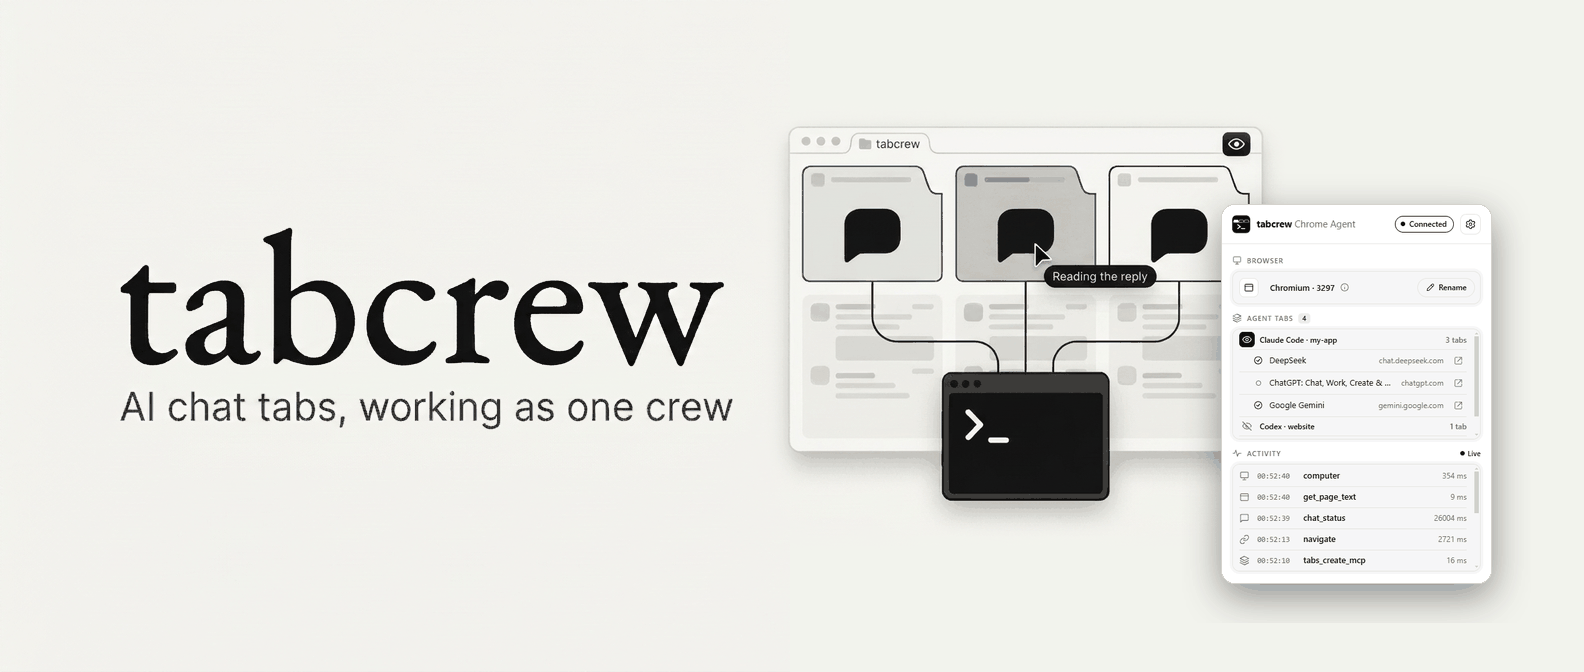
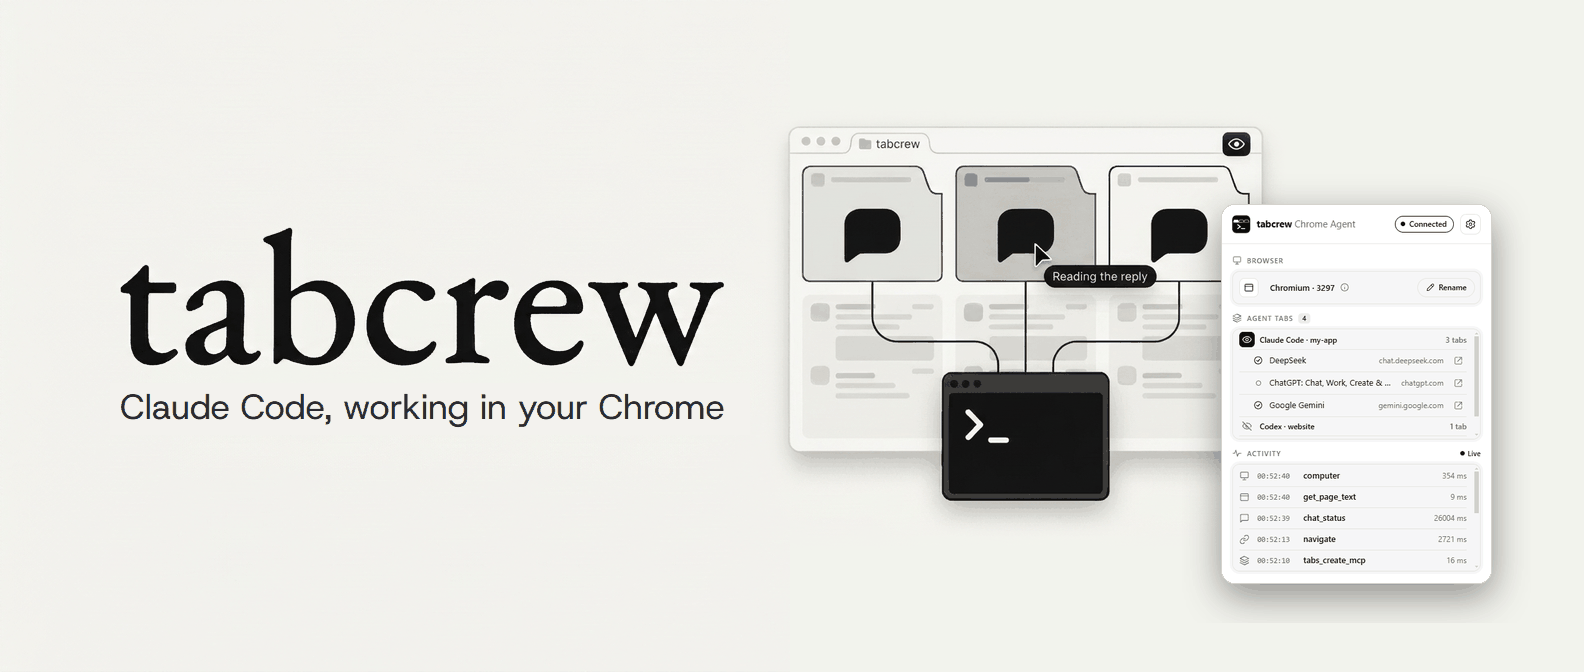
New message: Claude Code, working in your Chrome; simple flow diagram in the hero
tabcrew now drives any site through its own Chrome agent, not only chat
tabs, so the headline, meta tags, README intro and banner tagline say so.
The hero shows a small diagram instead of the popup: Claude Code talks to
the tabcrew Chrome Agent, which works on the AI chats and any website in
your Chrome; Claude Code does the work in your repo.

Changed region(s): [[0.0619, 0.5938, 0.464, 0.6562]]

diff --git a/docs/index.html b/docs/index.html
@@ -3,8 +3,8 @@
 <head>
 <meta charset="utf-8">
 <meta name="viewport" content="width=device-width, initial-scale=1">
-<title>tabcrew: AI chat tabs working as one crew for Claude Code</title>
-<meta name="description" content="Free, open-source Claude Code skill that runs the DeepSeek, ChatGPT and Gemini chats in your own Chrome as one crew and does the work in your repo. No API keys.">
+<title>tabcrew: Claude Code, working in your Chrome</title>
+<meta name="description" content="Free, open-source Claude Code skill with its own Chrome agent. It runs the DeepSeek, ChatGPT and Gemini chats you already use as one crew, works on any site in your real browser, and does the work in your repo. No API keys.">
 <meta name="robots" content="index, follow, max-image-preview:large">
 <meta name="author" content="fatihinci.com">
 <meta name="theme-color" content="#f5f4f0">
@@ -16,18 +16,18 @@
 <meta property="og:type" content="website">
 <meta property="og:site_name" content="tabcrew">
 <meta property="og:locale" content="en_US">
-<meta property="og:title" content="tabcrew: your AI chat tabs, working as one crew">
-<meta property="og:description" content="A Claude Code skill that drives the DeepSeek, ChatGPT and Gemini chats you already have open in Chrome and does the work in your repo. Free and open source, no API keys.">
+<meta property="og:title" content="tabcrew: Claude Code, working in your Chrome">
+<meta property="og:description" content="A Claude Code skill with its own open-source Chrome agent: your AI chats as one crew, any site in your real browser, the work done in your repo. Free and open source, no API keys.">
 <meta property="og:url" content="https://tabcrew.fatihinci.com/">
 <meta property="og:image" content="https://tabcrew.fatihinci.com/banner.png">
 <meta property="og:image:width" content="1584">
 <meta property="og:image:height" content="672">
-<meta property="og:image:alt" content="tabcrew: three chat tabs in the browser agent's tab group wired to a Claude Code terminal, next to the tabcrew Chrome Agent popup">
+<meta property="og:image:alt" content="tabcrew: Claude Code, working in your Chrome. Chat tabs in the browser agent's tab group wired to a Claude Code terminal, next to the tabcrew Chrome Agent popup">
 <meta name="twitter:card" content="summary_large_image">
-<meta name="twitter:title" content="tabcrew: your AI chat tabs, working as one crew">
-<meta name="twitter:description" content="A Claude Code skill that drives DeepSeek, ChatGPT and Gemini in your own Chrome and does the work in your repo. No API keys.">
+<meta name="twitter:title" content="tabcrew: Claude Code, working in your Chrome">
+<meta name="twitter:description" content="A Claude Code skill with its own Chrome agent: your AI chats as one crew, any site in your real browser, the work done in your repo. No API keys.">
 <meta name="twitter:image" content="https://tabcrew.fatihinci.com/banner.png">
-<meta name="twitter:image:alt" content="tabcrew: three chat tabs in the browser agent's tab group wired to a Claude Code terminal, next to the tabcrew Chrome Agent popup">
+<meta name="twitter:image:alt" content="tabcrew: Claude Code, working in your Chrome. Chat tabs in the browser agent's tab group wired to a Claude Code terminal, next to the tabcrew Chrome Agent popup">
 <script type="application/ld+json">
 {
   "@context": "https://schema.org",
@@ -43,7 +43,7 @@
       "@type": "SoftwareApplication",
       "name": "tabcrew",
       "url": "https://tabcrew.fatihinci.com/",
-      "description": "A Claude Code skill that runs the DeepSeek, ChatGPT and Gemini chats in your own Chrome as a crew of agents and does the work in your repo.",
+      "description": "A Claude Code skill with its own open-source Chrome agent. It runs the DeepSeek, ChatGPT and Gemini chats in your own Chrome as a crew of agents, works on any site in your browser, and does the work in your repo.",
       "applicationCategory": "DeveloperApplication",
       "operatingSystem": "Windows, macOS, Linux",
       "image": "https://tabcrew.fatihinci.com/banner.png",
@@ -145,42 +145,20 @@ section[id]{scroll-margin-top:72px}
 .vbtn.paused .i-play{display:block}.vbtn.paused .i-pause{display:none}
 .cap{font-size:13px;color:var(--muted);margin-top:10px;text-align:center}
 
-/* hero: the extension popup follows the agent */
-.hp{display:flex;flex-direction:column;align-items:center}
-.hp-pop{width:100%;max-width:380px;background:#fff;border:1px solid var(--line);border-radius:16px;box-shadow:0 20px 40px -24px rgba(0,0,0,.22);padding:14px 14px 12px;font:400 13px/1.35 var(--body);color:#0b0b0c}
-.hp-head{display:flex;align-items:center;gap:7px;padding-bottom:12px;margin-bottom:10px;border-bottom:1px solid #e3e3e6}
-.hp-logo{display:grid;place-items:center;width:26px;height:26px;border-radius:7px;background:#131313;color:#fcfcfd;font:700 11px/1 var(--mono)}
-.hp-head b{font-weight:700;font-size:14px}.hp-sub{color:#6b6b72;font-size:14px;flex:1;min-width:0;white-space:nowrap;overflow:hidden;text-overflow:ellipsis}
-.hp-chip{display:flex;align-items:center;gap:5px;padding:3px 8px;white-space:nowrap;border:1.5px solid #0b0b0c;border-radius:999px;font-weight:600;font-size:12px}
-.hp-chip i,.hp-live i{width:7px;height:7px;border-radius:50%;background:#0b0b0c}
-.hp-gear{display:grid;place-items:center;width:28px;height:28px;border:1px solid #e3e3e6;border-radius:8px}
-.hp-gear svg,.hp-tab svg,.hp-eye svg{width:15px;height:15px;fill:none;stroke:currentColor;stroke-width:1.8;stroke-linecap:round;stroke-linejoin:round}
-.hp-h2{display:flex;align-items:center;gap:7px;margin:10px 2px 7px;color:#6b6b72;font-weight:600;font-size:11px;letter-spacing:.08em;text-transform:uppercase}
-.hp-n{padding:0 6px;border-radius:5px;background:#ececee;color:#0b0b0c;letter-spacing:0}
-.hp-live{margin-left:auto;display:flex;align-items:center;gap:5px;color:#0b0b0c;letter-spacing:0;text-transform:none;font-size:12px}
-.hp-live i{animation:hp-pulse 1.6s ease-in-out infinite}
-.hp-box{list-style:none;margin:0;padding:4px 10px;border:1px solid #e3e3e6;border-radius:11px;background:#f6f6f7}
-.hp-box li{display:flex;align-items:center;gap:9px;height:34px;border-bottom:1px solid #e3e3e6}
-.hp-box li:last-child{border-bottom:0}
-.hp-agent{font-weight:600;font-size:12px}
-.hp-eye{display:grid;place-items:center;width:24px;height:24px;border-radius:6px;background:#0b0b0c;color:#fff;flex:none}
-.hp-tab{padding-left:22px;border-radius:8px;transition:background .35s}
-.hp-tab.on{background:#e9e9ec}
-.hp-ti{flex:1;min-width:0;overflow:hidden;text-overflow:ellipsis;white-space:nowrap}
-.hp-ho{color:#6b6b72;font-size:12px}
-.hp-tab svg{color:#6b6b72;flex:none}
-.hp-st{width:14px;height:14px;flex:none;border-radius:50%;border:1.5px solid #9b9ba1;box-sizing:border-box;transform:scale(.6)}
-.hp-tab.done .hp-st{transform:none;border-color:#0b0b0c;background:radial-gradient(circle,transparent 0 0) ;position:relative}
-.hp-tab.done .hp-st::after{content:"";position:absolute;left:3.5px;top:1.5px;width:3px;height:6px;border:solid #0b0b0c;border-width:0 1.6px 1.6px 0;transform:rotate(45deg)}
-.hp-tab.work .hp-st{transform:none;border-color:#d6d6da;border-top-color:#0b0b0c;animation:hp-spin .8s linear infinite}
-.hp-log{height:166px;overflow:hidden}
-.hp-log li{display:grid;grid-template-columns:62px 1fr auto;gap:10px;animation:hp-in .45s ease-out}
-.hp-log .t{font:11.5px var(--mono);color:#6b6b72}.hp-log .o{font-weight:600;font-family:var(--mono);font-size:12px}.hp-log .m{color:#6b6b72;font-size:12px}
-@keyframes hp-spin{to{transform:rotate(360deg)}}
-@keyframes hp-pulse{50%{opacity:.25}}
-@keyframes hp-in{from{opacity:0;transform:translateY(-10px)}}
-@media (max-width:560px){.hp-sub{display:none}}
-@media (prefers-reduced-motion:reduce){.hp *{animation:none!important;transition:none!important}}
+/* hero: a simple flow diagram */
+.hd svg{display:block;width:100%;height:auto;max-width:620px;margin:0 auto}
+.hd-card{fill:#fbfaf7;stroke:#d6d5d2;stroke-width:1.5}
+.hd-card.dark{fill:#141314;stroke:#141314}
+.hd-label{font:600 15px/1 var(--body);fill:#131313}.hd-label.inv{fill:#fcfcfd}
+.hd-small{font:500 12px/1 var(--body);fill:var(--muted)}
+.hd-pill rect{fill:#fff;stroke:#131313;stroke-width:1.5}
+.hd-pill text{font:500 14px/1 var(--body);fill:#131313}
+.hd-pill.any rect{fill:var(--alt);stroke-dasharray:4 4}
+.hd-line path{fill:none;stroke:#131313;stroke-width:1.6;opacity:.18}
+.hd-flow path{fill:none;stroke:#131313;stroke-width:1.8;stroke-linecap:round;stroke-dasharray:3 13;animation:hd-flow 1.4s linear infinite}
+.hd-tip{fill:none;stroke:#131313;stroke-width:1.8;stroke-linecap:round;stroke-linejoin:round}
+@keyframes hd-flow{to{stroke-dashoffset:-32}}
+@media (prefers-reduced-motion:reduce){.hd-flow path{animation:none}}
 
 
 /* about */
@@ -319,8 +297,8 @@ footer :focus-visible{outline-color:var(--inv-ink)}
 
   <section class="hero">
     <div>
-      <h1>Your AI chat tabs, working as one crew</h1>
-      <p class="intro">tabcrew is a Claude Code skill. It writes to the DeepSeek, ChatGPT and Gemini chats you already have open in Chrome, passes the right parts between them, and does the work in your repo.</p>
+      <h1>Claude Code, working in your Chrome</h1>
+      <p class="intro">tabcrew is a Claude Code skill with its own open-source Chrome agent. It runs the DeepSeek, ChatGPT and Gemini chats you already use as one crew, works on any other site in your real browser, and does the work in your repo.</p>
 
       <div class="install">
         <div class="cmd"><code><span class="p">&gt; </span>Install the skill from https://github.com/fatih255/tabcrew</code><button class="copy" type="button" data-copy="Install the skill from https://github.com/fatih255/tabcrew"><svg viewBox="0 0 16 16" fill="none" stroke="currentColor" stroke-width="1.5" aria-hidden="true"><rect x="5" y="5" width="9" height="9" rx="2"/><path d="M11 5V3.5A1.5 1.5 0 0 0 9.5 2h-6A1.5 1.5 0 0 0 2 3.5v6A1.5 1.5 0 0 0 3.5 11H5"/></svg><span>Copy</span></button></div>
@@ -330,20 +308,61 @@ footer :focus-visible{outline-color:var(--inv-ink)}
       <p class="more"><a href="https://github.com/fatih255/tabcrew">Read the docs on GitHub →</a><span>Free and open source (MIT) · No API keys</span></p>
     </div>
 
-    <figure class="hero-fig hp" aria-label="Animation: the tabcrew Chrome Agent popup follows Claude Code from chat to chat and lists each tool call">
-      <div class="hp-pop" aria-hidden="true">
-        <div class="hp-head"><span class="hp-logo">&gt;_</span><b>tabcrew</b><span class="hp-sub">Chrome Agent</span><span class="hp-chip"><i></i>Connected</span><span class="hp-gear"><svg viewBox="0 0 24 24" aria-hidden="true"><circle cx="12" cy="12" r="3"/><path d="M19.4 15a1.7 1.7 0 0 0 .3 1.8l.1.1a2 2 0 1 1-2.8 2.8l-.1-.1a1.7 1.7 0 0 0-1.8-.3 1.7 1.7 0 0 0-1 1.5V21a2 2 0 1 1-4 0v-.1a1.7 1.7 0 0 0-1.1-1.5 1.7 1.7 0 0 0-1.8.3l-.1.1a2 2 0 1 1-2.8-2.8l.1-.1a1.7 1.7 0 0 0 .3-1.8 1.7 1.7 0 0 0-1.5-1H3a2 2 0 1 1 0-4h.1a1.7 1.7 0 0 0 1.5-1.1 1.7 1.7 0 0 0-.3-1.8l-.1-.1a2 2 0 1 1 2.8-2.8l.1.1a1.7 1.7 0 0 0 1.8.3H9a1.7 1.7 0 0 0 1-1.5V3a2 2 0 1 1 4 0v.1a1.7 1.7 0 0 0 1 1.5 1.7 1.7 0 0 0 1.8-.3l.1-.1a2 2 0 1 1 2.8 2.8l-.1.1a1.7 1.7 0 0 0-.3 1.8V9a1.7 1.7 0 0 0 1.5 1H21a2 2 0 1 1 0 4h-.1a1.7 1.7 0 0 0-1.5 1z"/></svg></span></div>
-        <div class="hp-h2">Agent tabs <span class="hp-n">3</span></div>
-        <ul class="hp-box">
-          <li class="hp-agent"><span class="hp-eye"><svg viewBox="0 0 24 24" aria-hidden="true"><path d="M2 12s3.6-7 10-7 10 7 10 7-3.6 7-10 7S2 12 2 12z"/><circle cx="12" cy="12" r="3"/></svg></span><span class="hp-ti">Claude Code · my-app</span><span class="hp-ho">3 tabs</span></li>
-          <li class="hp-tab" data-i="0"><span class="hp-st"></span><span class="hp-ti">DeepSeek</span><span class="hp-ho">chat.deepseek.com</span><svg viewBox="0 0 24 24" aria-hidden="true"><path d="M13 3h8v8m0-8L10 14M10 3H5a2 2 0 0 0-2 2v14a2 2 0 0 0 2 2h14a2 2 0 0 0 2-2v-5"/></svg></li>
-          <li class="hp-tab" data-i="1"><span class="hp-st"></span><span class="hp-ti">ChatGPT</span><span class="hp-ho">chatgpt.com</span><svg viewBox="0 0 24 24" aria-hidden="true"><path d="M13 3h8v8m0-8L10 14M10 3H5a2 2 0 0 0-2 2v14a2 2 0 0 0 2 2h14a2 2 0 0 0 2-2v-5"/></svg></li>
-          <li class="hp-tab" data-i="2"><span class="hp-st"></span><span class="hp-ti">Google Gemini</span><span class="hp-ho">gemini.google.com</span><svg viewBox="0 0 24 24" aria-hidden="true"><path d="M13 3h8v8m0-8L10 14M10 3H5a2 2 0 0 0-2 2v14a2 2 0 0 0 2 2h14a2 2 0 0 0 2-2v-5"/></svg></li>
-        </ul>
-        <div class="hp-h2">Activity <span class="hp-live"><i></i>Live</span></div>
-        <ul class="hp-box hp-log"></ul>
-      </div>
-      <figcaption class="cap">The tabcrew Chrome Agent popup follows the agent from chat to chat</figcaption>
+    <figure class="hero-fig hd">
+      <svg viewBox="0 0 640 430" role="img" aria-label="Diagram: Claude Code talks to the tabcrew Chrome Agent, which works in your Chrome on AI chats and any website; Claude Code does the work in your repo">
+        <g class="hd-line">
+          <path id="hd-a" d="M176 172 H256"/>
+          <path id="hd-b" d="M256 212 H176"/>
+          <path d="M392 192 C430 192 430 110 470 110"/>
+          <path d="M392 192 C432 192 432 162 470 162"/>
+          <path d="M392 192 C432 192 432 214 470 214"/>
+          <path d="M392 192 C430 192 430 300 470 300"/>
+          <path d="M98 250 V318"/>
+        </g>
+        <g class="hd-flow">
+          <path d="M176 172 H256"/><path d="M256 212 H176"/>
+          <path d="M392 192 C430 192 430 110 470 110"/><path d="M392 192 C432 192 432 162 470 162"/>
+          <path d="M392 192 C432 192 432 214 470 214"/><path d="M392 192 C430 192 430 300 470 300"/>
+          <path d="M98 250 V318"/>
+        </g>
+        <path class="hd-tip" d="M249 167 l8 5 -8 5"/><path class="hd-tip" d="M183 207 l-8 5 8 5"/><path class="hd-tip" d="M93 311 l5 8 5-8"/>
+        <text class="hd-small" x="216" y="160" text-anchor="middle">actions</text>
+        <text class="hd-small" x="216" y="232" text-anchor="middle">results</text>
+
+        <g transform="translate(20 134)">
+          <rect class="hd-card dark" width="156" height="116" rx="14"/>
+          <circle cx="20" cy="20" r="4" fill="#505050"/><circle cx="34" cy="20" r="4" fill="#505050"/><circle cx="48" cy="20" r="4" fill="#505050"/>
+          <path d="M22 50 l14 11 -14 11" fill="none" stroke="#fcfcfd" stroke-width="4" stroke-linecap="round" stroke-linejoin="round"/><rect x="44" y="68" width="22" height="4" rx="2" fill="#fcfcfd"/>
+          <text class="hd-label inv" x="20" y="100">Claude Code</text>
+        </g>
+
+        <g transform="translate(256 134)">
+          <rect class="hd-card" width="136" height="116" rx="14"/>
+          <rect x="18" y="16" width="34" height="34" rx="9" fill="#131313"/>
+          <rect x="24" y="23" width="22" height="7" rx="2" fill="#fcfcfd"/><path d="M28 30 v6 M35 30 v6 M42 30 v6" stroke="#fcfcfd" stroke-width="2"/><rect x="29" y="38" width="12" height="7" rx="2" fill="#fcfcfd"/>
+          <text class="hd-label" x="18" y="76">tabcrew</text>
+          <text class="hd-label" x="18" y="96">Chrome Agent</text>
+        </g>
+
+        <g transform="translate(470 66)">
+          <rect class="hd-card" width="150" height="270" rx="14"/>
+          <text class="hd-small" x="16" y="24">your Chrome</text>
+          <g class="hd-pill"><rect x="12" y="34" width="126" height="32" rx="9"/><text x="26" y="55">DeepSeek</text></g>
+          <g class="hd-pill"><rect x="12" y="80" width="126" height="32" rx="9"/><text x="26" y="101">ChatGPT</text></g>
+          <g class="hd-pill"><rect x="12" y="126" width="126" height="32" rx="9"/><text x="26" y="147">Gemini</text></g>
+          <line x1="16" y1="186" x2="134" y2="186" stroke="#d6d5d2"/>
+          <g class="hd-pill any"><rect x="12" y="218" width="126" height="32" rx="9"/><circle cx="31" cy="234" r="7" fill="none" stroke="#131313" stroke-width="1.6"/><path d="M24 234 h14 M31 227 c-4 4 -4 10 0 14 M31 227 c4 4 4 10 0 14" fill="none" stroke="#131313" stroke-width="1.2"/><text x="46" y="239">any website</text></g>
+          <text class="hd-small" x="16" y="206">and</text>
+        </g>
+
+        <g transform="translate(20 318)">
+          <rect class="hd-card" width="156" height="60" rx="12"/>
+          <path d="M18 22 h10 l4 4 h14 v16 h-28 z" fill="none" stroke="#131313" stroke-width="1.8" stroke-linejoin="round"/>
+          <text class="hd-label" x="58" y="37">your repo</text>
+        </g>
+        <text class="hd-small" x="110" y="292">edits · tests</text>
+      </svg>
+      <figcaption class="cap">Claude Code works through its own Chrome agent: in your AI chats, on any site, with your logins.</figcaption>
     </figure>
   </section>
 </div>
@@ -615,7 +634,7 @@ footer :focus-visible{outline-color:var(--inv-ink)}
 
 <section class="band alt" id="install">
   <div class="wrap cta">
-    <h2>Put your chat tabs to work</h2>
+    <h2>Put your browser to work</h2>
     <p>Tell Claude Code to install it, log in to a chat site, and describe the job.</p>
     <div class="install">
       <div class="cmd"><code><span class="p">&gt; </span>Install the skill from https://github.com/fatih255/tabcrew</code><button class="copy" type="button" data-copy="Install the skill from https://github.com/fatih255/tabcrew"><svg viewBox="0 0 16 16" fill="none" stroke="currentColor" stroke-width="1.5" aria-hidden="true"><rect x="5" y="5" width="9" height="9" rx="2"/><path d="M11 5V3.5A1.5 1.5 0 0 0 9.5 2h-6A1.5 1.5 0 0 0 2 3.5v6A1.5 1.5 0 0 0 3.5 11H5"/></svg><span>Copy</span></button></div>
@@ -628,7 +647,7 @@ footer :focus-visible{outline-color:var(--inv-ink)}
 <footer>
   <div class="wrap">
     <div class="links">
-      <div><p>A Claude Code skill that runs your browser AI chats as a crew. Free and open source.</p></div>
+      <div><p>A Claude Code skill with its own Chrome agent: your AI chats as a crew, any site, your own logins. Free and open source.</p></div>
       <div><h4>Project</h4><ul><li><a href="https://github.com/fatih255/tabcrew">GitHub</a></li><li><a href="https://github.com/fatih255/tabcrew#readme">README</a></li><li><a href="https://github.com/fatih255/tabcrew/blob/main/LICENSE">MIT license</a></li></ul></div>
       <div><h4>Learn</h4><ul><li><a href="#about">How it works</a></li><li><a href="#features">Workflows</a></li><li><a href="#chats">Supported chats</a></li><li><a href="#extension">Chrome extension</a></li><li><a href="#faq">FAQ</a></li></ul></div>
       <div><h4>Community</h4><ul><li><a href="https://github.com/fatih255/tabcrew/blob/main/CONTRIBUTING.md">Contribute</a></li><li><a href="https://github.com/fatih255/tabcrew/issues">Issues</a></li><li><a href="https://github.com/fatih255">@fatih255 on GitHub</a></li><li><a href="https://fatihinci.com">fatihinci.com</a></li></ul></div>
@@ -661,45 +680,6 @@ document.querySelectorAll('[data-copy]').forEach(function (b) {
     else done(false);
   });
 });
-(function () {
-  var fig = document.querySelector('.hp');
-  if (!fig) return;
-  var tabs = fig.querySelectorAll('.hp-tab'), log = fig.querySelector('.hp-log');
-  var steps = [
-    ['navigate', 'chat.deepseek.com', 'Opening the chat'], ['chat_send', '2.1k chars', 'Sending the message'], ['chat_read', 'done · 6.4k', 'Reading the reply'],
-    ['navigate', 'chatgpt.com', 'Opening the chat'], ['chat_send', '1.8k chars', 'Sending the message'], ['chat_read', 'done · 5.2k', 'Reading the reply'],
-    ['navigate', 'gemini.google.com', 'Opening the chat'], ['chat_send', '2.0k chars', 'Sending the message'], ['chat_read', 'done · 7.9k', 'Reading the reply']
-  ];
-  var clock = new Date(); clock.setHours(14, 2, 10);
-  function add(op, meta) {
-    clock = new Date(clock.getTime() + 1000 + Math.random() * 4000);
-    var li = document.createElement('li');
-    var tm = clock.toTimeString().slice(0, 8);
-    li.innerHTML = '<span class="t">' + tm + '</span><span class="o">' + op + '</span><span class="m">' + meta + '</span>';
-    log.insertBefore(li, log.firstChild);
-    while (log.children.length > 5) log.removeChild(log.lastChild);
-  }
-  function show(k) {
-    var i = Math.floor(k / 3) % 3, s = steps[k % 9];
-    tabs.forEach(function (el, j) {
-      el.classList.toggle('on', j === i);
-      el.classList.toggle('work', j === i && s[0] !== 'chat_read');
-      if (j === i && s[0] === 'chat_read') el.classList.add('done');
-      if (k % 9 === 0) el.classList.remove('done');
-    });
-    add(s[0], s[1]);
-  }
-  ['tabs_context_mcp', 'tabs_create_mcp', 'tabs_create_mcp', 'chat_status'].forEach(function (o, n) { add(o, ['1 tab', 'DeepSeek', 'ChatGPT', 'logged in'][n]); });
-  var k = 0;
-  show(k);
-  if (window.matchMedia && matchMedia('(prefers-reduced-motion: reduce)').matches) return;
-  var timer = null;
-  function run() { if (!timer) timer = setInterval(function () { show(++k); }, 1900); }
-  function stop() { clearInterval(timer); timer = null; }
-  if ('IntersectionObserver' in window) {
-    new IntersectionObserver(function (es) { es[0].isIntersecting ? run() : stop(); }).observe(fig);
-  } else run();
-})();
 fetch('https://api.github.com/repos/fatih255/tabcrew').then(function (r) { return r.ok ? r.json() : null; }).then(function (d) {
   var n = d && d.stargazers_count;
   if (typeof n !== 'number') return;

diff --git a/README.md b/README.md
@@ -6,13 +6,11 @@
 </p>
 <br>
 
-tabcrew is a Claude Code skill that lets Claude Code work with the AI chats you already use in Chrome: DeepSeek, ChatGPT and Gemini. Claude Code writes to the chats, waits for their answers, passes the right parts between them, and does the actual work in your repo.
+**Claude Code, working in your Chrome.** tabcrew is a Claude Code skill with its own open-source browser agent, **[tabcrew Chrome Agent](#tabcrew-chrome-agent)** (a Chrome extension and MCP server in this repo).
 
-If you copy prompts from a chat into Claude Code and paste the results back, this does that loop for you.
-
-It runs on your own browser sessions. No API keys, no extra subscriptions.
-
-It comes with its own browser agent: **[tabcrew Chrome Agent](#tabcrew-chrome-agent)**, an open-source Chrome extension and MCP server in this repo. You can watch it work in your Chrome, follow one agent while several share the browser, and use it on its own with any MCP client.
+- **Your AI chats as one crew.** Claude Code writes to the DeepSeek, ChatGPT and Gemini chats you already use, waits for their answers, passes the right parts between them, and does the actual work in your repo. If you copy prompts from a chat into Claude Code and paste the results back, this does that loop for you.
+- **Any other site, too.** The same agent can open, read, click and fill in pages in your real Chrome, with your logins, in its own tab group. You can watch it work and follow one agent while several share the browser.
+- **Your own sessions.** No API keys, no extra subscriptions, no cloud: it runs on your computer.
 
 ![tabcrew Chrome Agent popup in light and dark themes: connected, agent tabs grouped per agent (the eye follows Claude Code · my-app), and the latest tool calls](docs/assets/extension.png)
 
